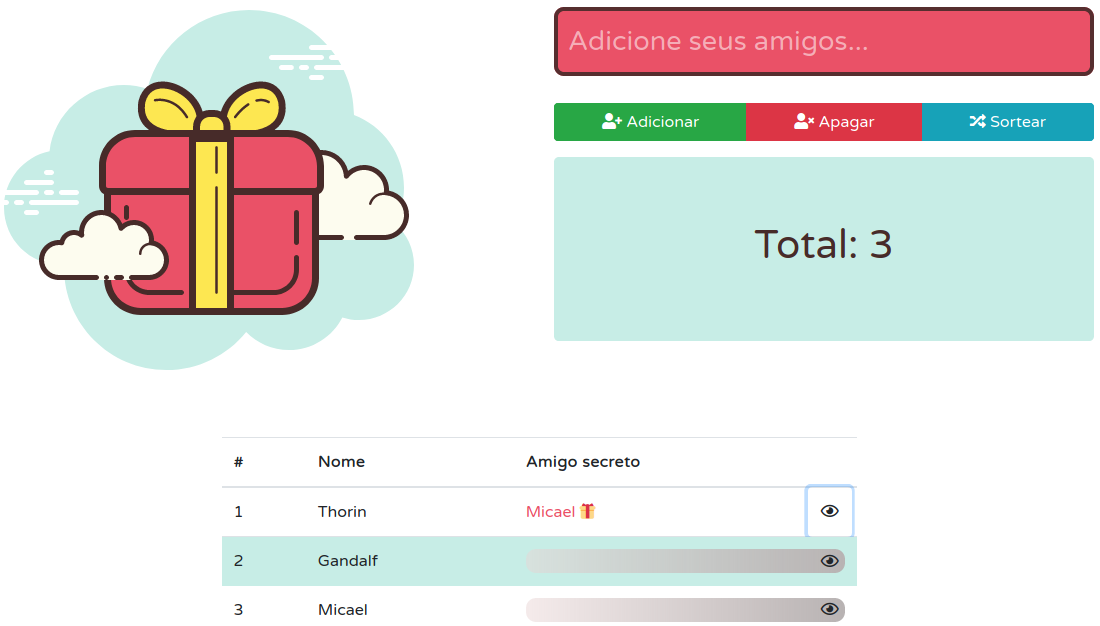
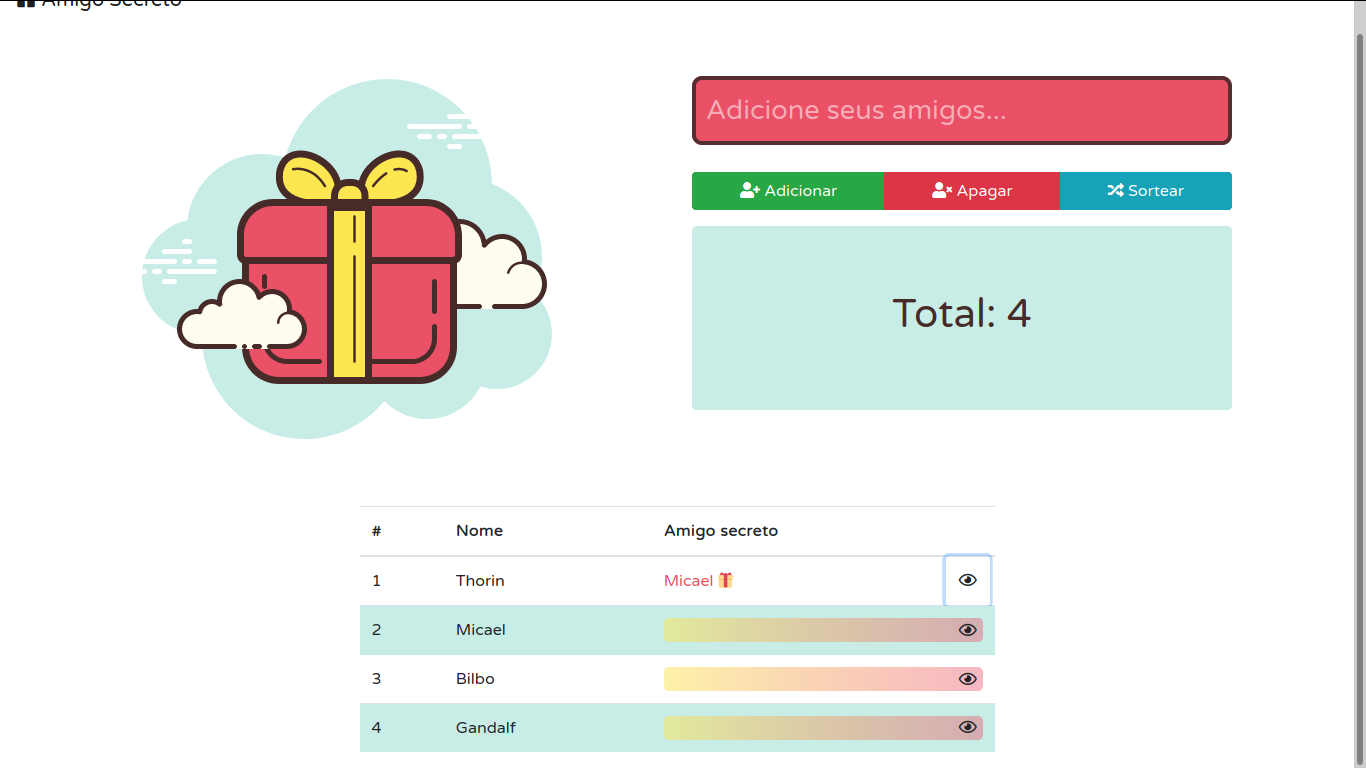
ajustes mobile

diff --git a/index.html b/index.html
@@ -15,10 +15,11 @@
 <body> 
     <header>
         <nav class="navbar navbar-expand-lg navbar-light">
-            <a href="index.html" class="navbar-brand">Amigo Secreto</a>
+            <a href="index.html" class="navbar-brand"><i class="fas fa-gift"></i> Amigo Secreto</a>
         </nav>
     </header>
-    <div class="container">
+
+    <div class="container mt-5">
         <div class="row home-display">
             <div class="col-md-6 mb-3">
                 <img class="img-fluid" src="icons8-gift.svg" alt="Presente">
